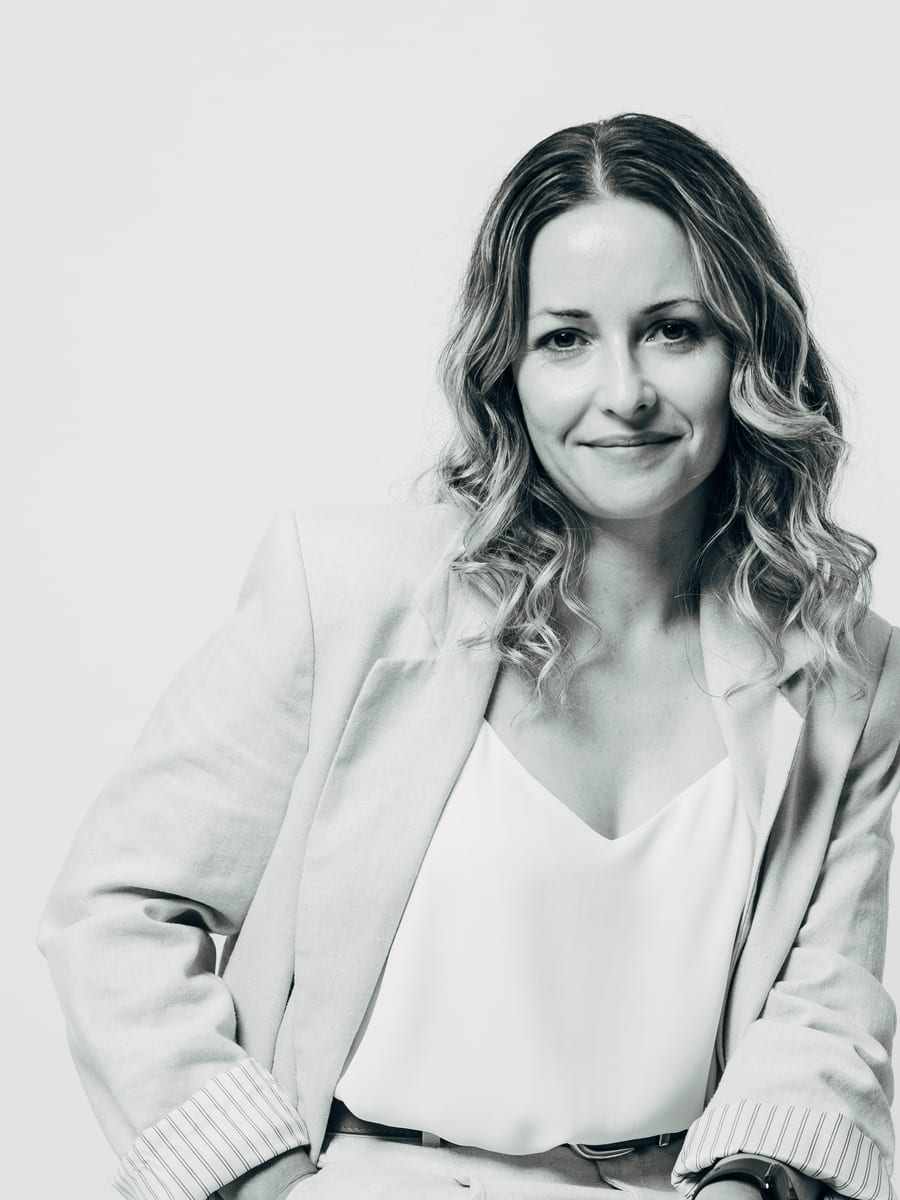
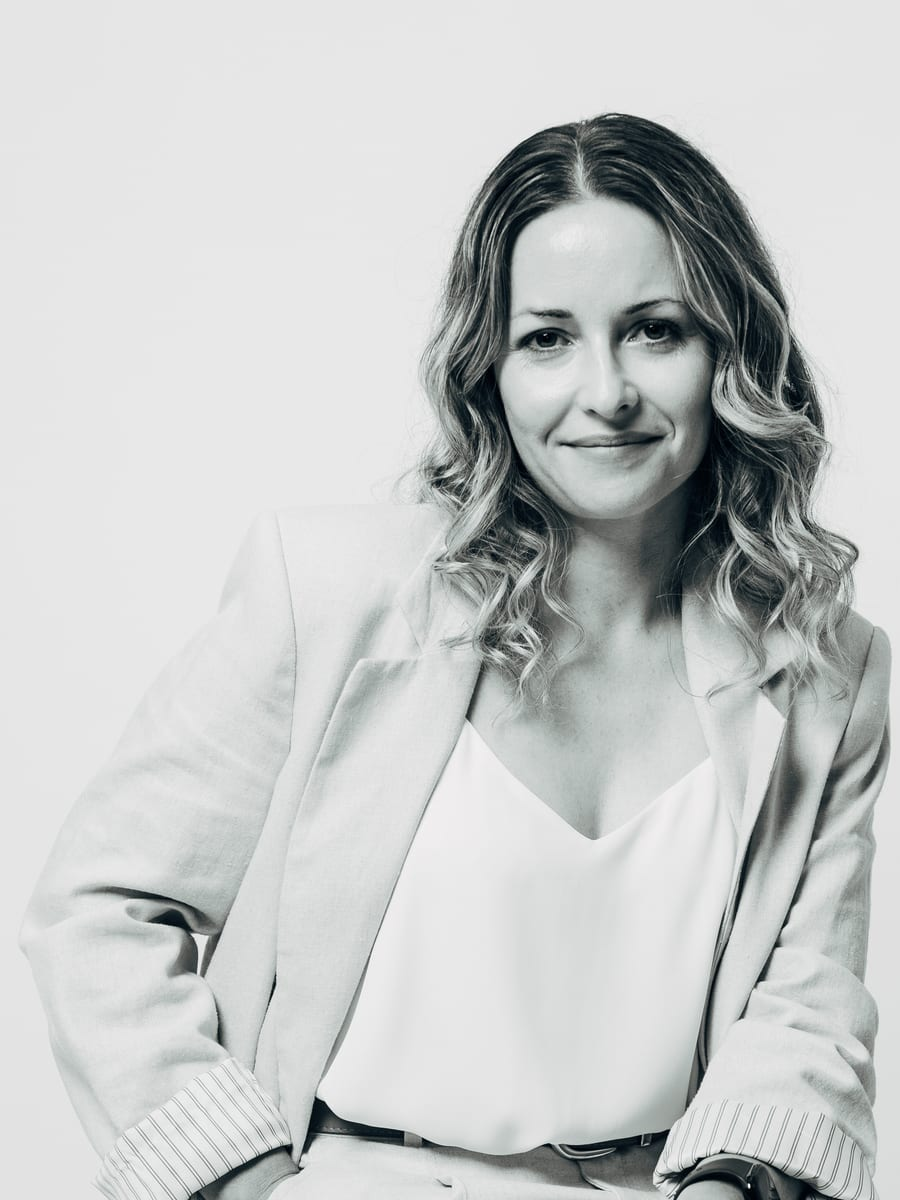
Team-Portraits: Gesichtsmitte an deployten Dateien gemessen (6. Runde)
- Gesichtsmitte diesmal direkt an den deployten 900x1200-Dateien gemessen
  (volle Kachelbreite = On-Screen-X) statt am Original
- Michael Gaul nochmals kleiner + aus linker Ecke in die Mitte
- Janine, Natali von rechts in die Mitte
- Elena leicht nach links (mittig)
- Sebastian aus rechter Ecke zurück in die Mitte
- Aylin groesser, Gesicht ~52%
- leadership.ts Crop-Doku aktualisiert

Changed region(s): [[0.0933, 0.0925, 1.0, 1.0], [0.0622, 0.8633, 0.1244, 0.925], [0.3111, 0.6475, 0.3422, 0.6783]]

diff --git a/src/data/leadership.ts b/src/data/leadership.ts
@@ -32,14 +32,17 @@ export interface Leader {
 //     • Knut: Scheitel via object-position 8 %→5 % (Founders FOCUS) auf 12 %. „kleiner"
 //       NICHT möglich — Original nur 1362×2048, bereits volle Breite.
 //   MITTLERE Reihe (Ref = Heike, Scheitel ~13 %, Gesicht mittig):
+//   6. Runde (21.07.): Gesichtsmitte diesmal DIREKT an den deployten Dateien gemessen
+//   (volle Kachelbreite = On-Screen-X) statt am Original — mehrere saßen noch off-center.
 //     • Simone: extract(127,213,3745,4994) „Simone Lenzen.jpg" (kleiner, mittig)
-//     • Natali:  extract(323,794,2586,3448) „Natali.jpg" (mittig)
-//     • Janine:  extract(597,331,3190,4253) „Janine.jpg" (kleiner, mittig)
-//     • Michael Gaul: extract(772,158,3202,4269) „Michael Gaul.jpg" (deutlich kleiner, mittig)
+//     • Natali:  extract(504,794,2586,3448) „Natali.jpg" (war rechts → mittig)
+//     • Janine:  extract(693,331,3190,4253) „Janine.jpg" (war rechts → mittig)
+//     • Michael Gaul: extract(78,106,3502,4669) „Michael Gaul.jpg" (nochmals kleiner + aus
+//       der linken Ecke in die Mitte)
 //   UNTERE Reihe (Ref = Matthäus, Scheitel ~12 %, Gesicht mittig):
-//     • Elena:     extract(696,1070,2933,3911) „Elena.jpg" (größer, mittig)
-//     • Sebastian: extract(703,454,2692,3589) „Sebastian lege.jpg" (mittig)
-//     • Aylin:     extract(716,863,2917,3889) „Aylin.jpg" (Gesicht ~52 %, leicht nach rechts)
+//     • Elena:     extract(755,1070,2933,3911) „Elena.jpg" (größer, mittig)
+//     • Sebastian: extract(972,454,2692,3589) „Sebastian lege.jpg" (war weit rechts → mittig)
+//     • Aylin:     extract(748,903,2687,3582) „Aylin.jpg" (größer, Gesicht ~52 %)
 export const LEADERSHIP: Leader[] = [
   // ── Leader-Reihe (Index 0–2) ──────────────────────────────────────────────
   // Echtes Portrait (Wolfram 21.07.) — löst den Platzhalter lead-1.jpg ab (den Janine
